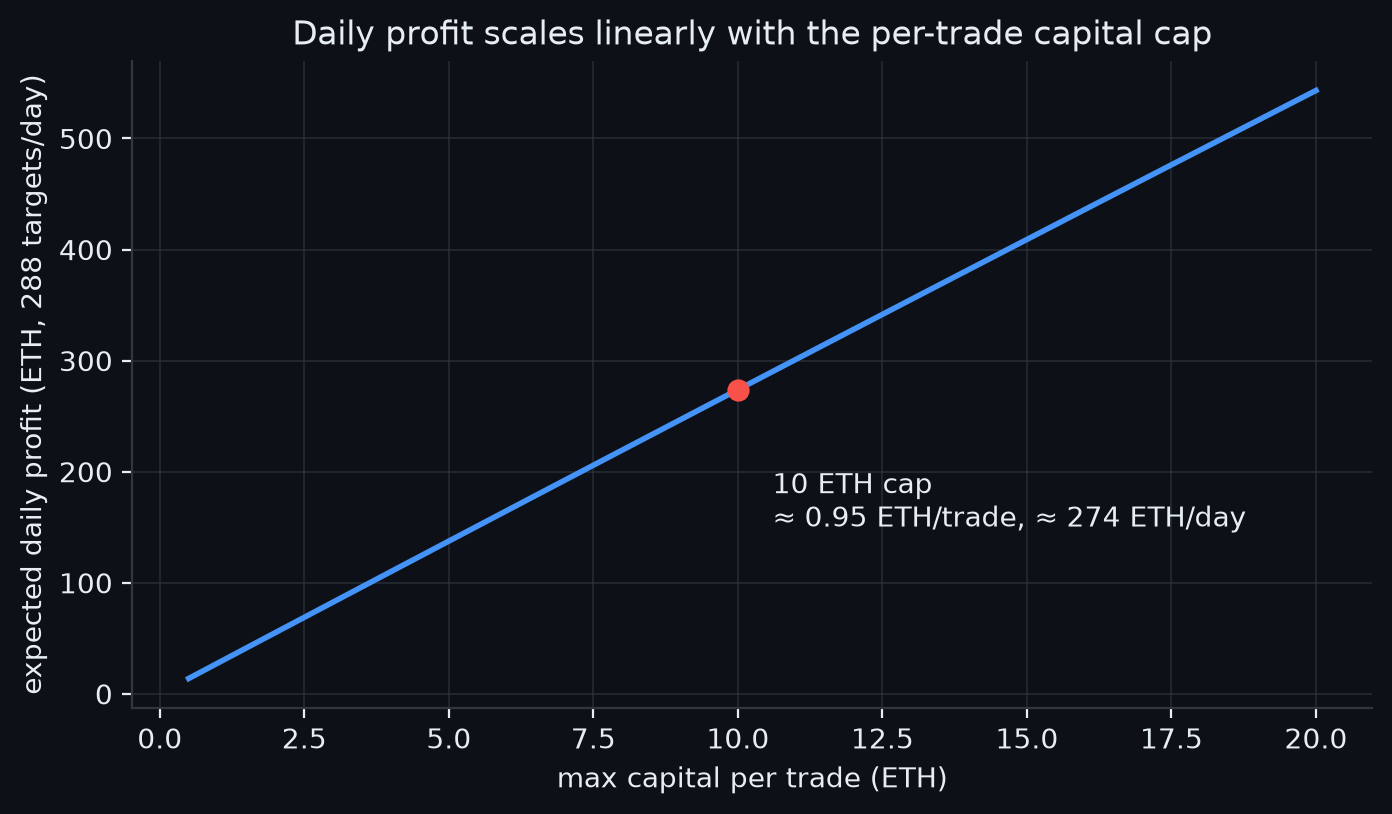
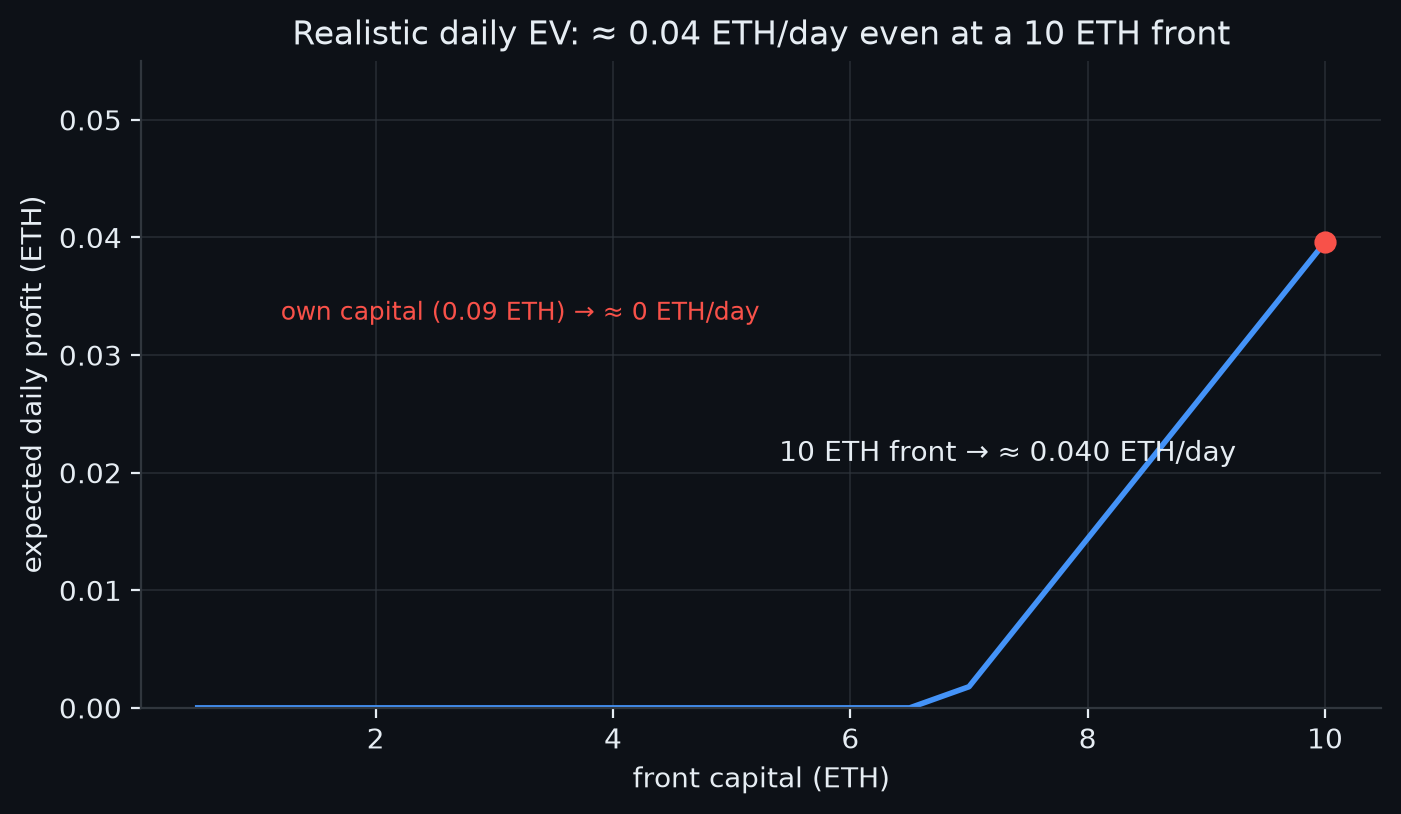
docs: ground the daily-profit figure in measured data and fix the scorer macro

diff --git a/scripts/figures/readme.py b/scripts/figures/readme.py
@@ -15,7 +15,7 @@ matplotlib.use("Agg")
 import matplotlib.pyplot as plt  # noqa: E402
 
 from eth_mev.config import DATA_DIR, REPO  # noqa: E402
-from eth_mev.measure.exposure.v2.mesp import _profit_buy, exposure, tokens_for_net  # noqa: E402
+from eth_mev.measure.exposure.v2.mesp import _profit_buy, tokens_for_net  # noqa: E402
 from eth_mev.onchain.decode.v2.swaps import Swap  # noqa: E402
 
 OUT = REPO / "docs" / "research" / "figures" / "readme"
@@ -103,33 +103,32 @@ def exposure_curve(th: dict, name: str) -> None:
     plt.close(fig)
 
 
-# Daily-profit-vs-cap model illustration. Reproduces the linear result from
-# docs/research/methodology/sandwich-methodology.md §12 on the documented representative victim
-# (100-ETH buy, 10% guard slack, 30 bps, ~2,000-ETH pool): profit per sandwich scales ~linearly
-# with the per-trade capital cap until the victim's guard binds. TARGETS_PER_DAY is a stated model
-# assumption, not a measurement (the measured whale rate is "one per several minutes").
-TARGETS_PER_DAY = 288  # one sandwichable whale every 5 minutes
+# Realistic daily-EV-vs-front estimate, from the measured whale economics
+# (docs/research/methodology/sandwich-methodology.md §14): ~1 sandwichable whale per several
+# minutes at a 10 ETH front, whale MESP ~0.0035 ETH. Landing cost ~0.0003 ETH (bribe + gas) and
+# WIN_RATE x CAPTURE_FRACTION = 0.125. This replaces the earlier linear extrapolation, which
+# wrongly assumed a 10%-slack victim (0.7% of the 3,040 measured swaps) repeated 288x a day.
+WHALES_PER_DAY = 288.0   # one per 5 minutes (measured "one per several minutes")
+WHALE_MESP_10 = 0.0035   # ETH, at a 10 ETH front (measured)
+COST = 0.0003            # ETH, bribe + gas
+WRCAP = 0.125            # WIN_RATE 0.5 x CAPTURE_FRACTION 0.25
 
 
 def capital_daily(th: dict, name: str) -> None:
-    x, y, amount = 2_000e18, 200_000e18, 100e18
-    r = 0.003
-    out = tokens_for_net(x, y, amount / (1 + r))
-    victim = Swap(tx_hash="", block_number=0, tx_index=0, log_index=0, venue="", pool="", token0="",
-                  token1="", user="", is_buy=True, amount_in=int(amount), amount_out=0, x_pre=x,
-                  y_pre=y, fee_bps=30.0, kind="in", amount=int(amount), limit=int(out / 1.10))
-    caps = [i * 0.5e18 for i in range(1, 41)]  # 0.5 .. 20 ETH
-    daily = [TARGETS_PER_DAY * exposure(victim, capital=c).mesp / 1e18 for c in caps]
+    caps = [i * 0.5 for i in range(1, 21)]  # 0.5 .. 10 ETH
+    daily = [WHALES_PER_DAY * max(0.0, WRCAP * WHALE_MESP_10 * (c / 10.0) - COST) for c in caps]
     fig, ax = plt.subplots(figsize=(8, 4.2))
-    ax.plot([c / 1e18 for c in caps], daily, color=th["a"], lw=2)
-    ten = exposure(victim, capital=10e18)
-    y10 = TARGETS_PER_DAY * ten.mesp / 1e18
+    ax.plot(caps, daily, color=th["a"], lw=2)
+    y10 = daily[-1]
     ax.plot([10.0], [y10], "o", color=th["b"], ms=7)
-    ax.annotate(f"10 ETH cap\n≈ {ten.mesp / 1e18:.2f} ETH/trade, ≈ {y10:,.0f} ETH/day",
-                xy=(10.0, y10), xytext=(10.6, 0.55 * y10), color=th["fg"], fontsize=10)
-    ax.set_xlabel("max capital per trade (ETH)")
-    ax.set_ylabel(f"expected daily profit (ETH, {TARGETS_PER_DAY:,} targets/day)")
-    ax.set_title("Daily profit scales linearly with the per-trade capital cap")
+    ax.annotate(f"10 ETH front → ≈ {y10:.3f} ETH/day", xy=(10.0, y10),
+                xytext=(5.4, 0.021), color=th["fg"], fontsize=10)
+    ax.annotate("own capital (0.09 ETH) → ≈ 0 ETH/day", xy=(0.09, 0.0),
+                xytext=(1.2, 0.033), color=th["b"], fontsize=9)
+    ax.set_ylim(0, 0.055)
+    ax.set_xlabel("front capital (ETH)")
+    ax.set_ylabel("expected daily profit (ETH)")
+    ax.set_title("Realistic daily EV: ≈ 0.04 ETH/day even at a 10 ETH front")
     _style(ax, fig, th)
     fig.savefig(OUT / f"capital-daily-{name}.png", bbox_inches="tight", dpi=200)
     plt.close(fig)

diff --git a/README.md b/README.md
@@ -29,8 +29,7 @@ and built this repository as the successor to
 On Ethereum the mechanism **works**, which is the reason the project lives here.
 The front-run model produces positive, fee-net profit on loose-guard victims, and
 that profit scales with the capital you commit to each trade. The
-[capital section](#profit-scales-linearly-with-the-per-trade-cap) below shows the
-numbers. What stopped us from turning it into a live bot was a combination of the
+[capital section](#what-the-per-trade-cap-actually-buys) below shows the numbers. What stopped us from turning it into a live bot was a combination of the
 honest caveats measured throughout this document, the cost of landing first and
 the trades hidden in private order flow, and, more importantly, the conclusion
 that what we were building is **sandwiching**: it extracts value from ordinary
@@ -176,7 +175,7 @@ saturating at 0.40 because the Solana predecessor never measured precision
 above about 40%:
 
 ```math
-p = \operatorname{clip}\!\left(0.02 + 0.10\,\log_{10}(1 + s) + 0.004\,\min(f, 5),\ 0,\ 0.40\right)
+p = \mathrm{clip}\!\left(0.02 + 0.10\,\log_{10}(1 + s) + 0.004\,\min(f, 5),\ 0,\ 0.40\right)
 ```
 
 A swap is a **strict target** when MESP with a 1 ETH cap is at least
@@ -268,42 +267,42 @@ last 20%. The win rate WR cannot be measured offline, so every result is
 reported across WR in 0.1 to 0.9 and the capture fraction across 0.19 to
 0.60, each averaged over 20 Monte-Carlo seeds.
 
-## Profit scales linearly with the per-trade cap
+## What the per-trade cap actually buys
 
-The reason the move to Ethereum made sense at all is that the profit scales
-**linearly with how much you are allowed to commit to each trade**, up to the
-point where the victim's own slippage guard binds. On a representative victim, a
-100 ETH buy with 10% guard slack on a 2,000 ETH, 30 bps pool, the model returns a
-roughly constant 9.5% on the front regardless of its size:
+Profit on a single sandwich is linear in the front, and putting twice as much
+capital in does take roughly twice as much out, but only while a victim big
+enough to absorb that front exists. The return per trade is set by the victim's
+own price impact (its trade size relative to the pool), and the front is capped
+by the victim's slippage guard. The earlier reading of this took one whale, a
+100 ETH buy that moves a 2,000 ETH pool 5% with 10% slack, and extrapolated its
+9.5% return across a whole day. That whale is not the market: in our recorded
+decodable swaps the median victim left 0.0002% slack, and only 0.7% left 10% or
+more.
 
-| capital per trade | profit per trade | return |
-|---|---|---|
-| 0.045 ETH | 0.0043 ETH | 9.6% |
-| 0.09 ETH | 0.0086 ETH | 9.6% |
-| 0.18 ETH | 0.0173 ETH | 9.6% |
-| 1 ETH | 0.0958 ETH | 9.6% |
-| 10 ETH | 0.951 ETH | 9.5% |
+The live screener, which runs the full model over real pool state and real trade
+sizes, measured what the market actually produces:
 
-A 10 ETH cap is not ten times a small number that stays small; it is ten times
-the same percentage, and that compounds the daily total:
+| input | measured |
+|---|---|
+| sandwichable whale at a 10 ETH front | about one every several minutes |
+| MESP per whale | about 0.0035 ETH |
+| expected value per whale (WR 0.5 x capture 0.25, 0.0003 ETH landing cost) | about +0.00014 ETH |
+| realistic daily profit at a 10 ETH front | about 0.04 ETH/day |
+| realistic daily profit at our own 0.09 ETH capital | about 0 ETH/day |
 
 <picture>
   <source media="(prefers-color-scheme: dark)" srcset="docs/research/figures/readme/capital-daily-dark.png">
-  <img alt="Expected daily profit against the per-trade capital cap" src="docs/research/figures/readme/capital-daily-light.png" width="90%">
+  <img alt="Realistic expected daily profit against the per-trade front" src="docs/research/figures/readme/capital-daily-light.png" width="90%">
 </picture>
 
-The figure is a **model illustration**, not a recorded run: it multiplies the
-per-trade profit above by an assumed 288 sandwichable targets per day (the
-measured whale rate is "one per several minutes"). At 10 ETH the line reads
-about **0.95 ETH per trade, or roughly 274 ETH per day**. The linearity holds
-only until the front reaches the victim's own feasibility boundary (about 100 ETH
-for this victim); past that the victim reverts and more capital buys nothing.
-
-Whether 274 ETH a day is reachable in practice is exactly what the rest of this
-document measures, and it is the honest brake on the headline number: most
-victims leave no slack at all (median ~0%, p90 ~2%), so the daily total is
-bounded by how many loose-guard victims actually appear, not by the linear math
-itself.
+The figure is an estimate built from those measured inputs, not a recorded run.
+It stays at zero until the front is large enough for a whale to clear the landing
+cost (about 7 ETH), then reaches about 0.04 ETH a day at 10 ETH. That is roughly
+7,000 times less than the 274 ETH the linear extrapolation produced, and the
+10 ETH front is exactly what we cannot put up: a flash loan repays in one
+transaction while a sandwich is two, so the front has to be our own capital,
+where the same whales fall below the landing cost and the expected daily profit
+is zero. That is the reason this was dropped.
 
 ## What the data shows
 
